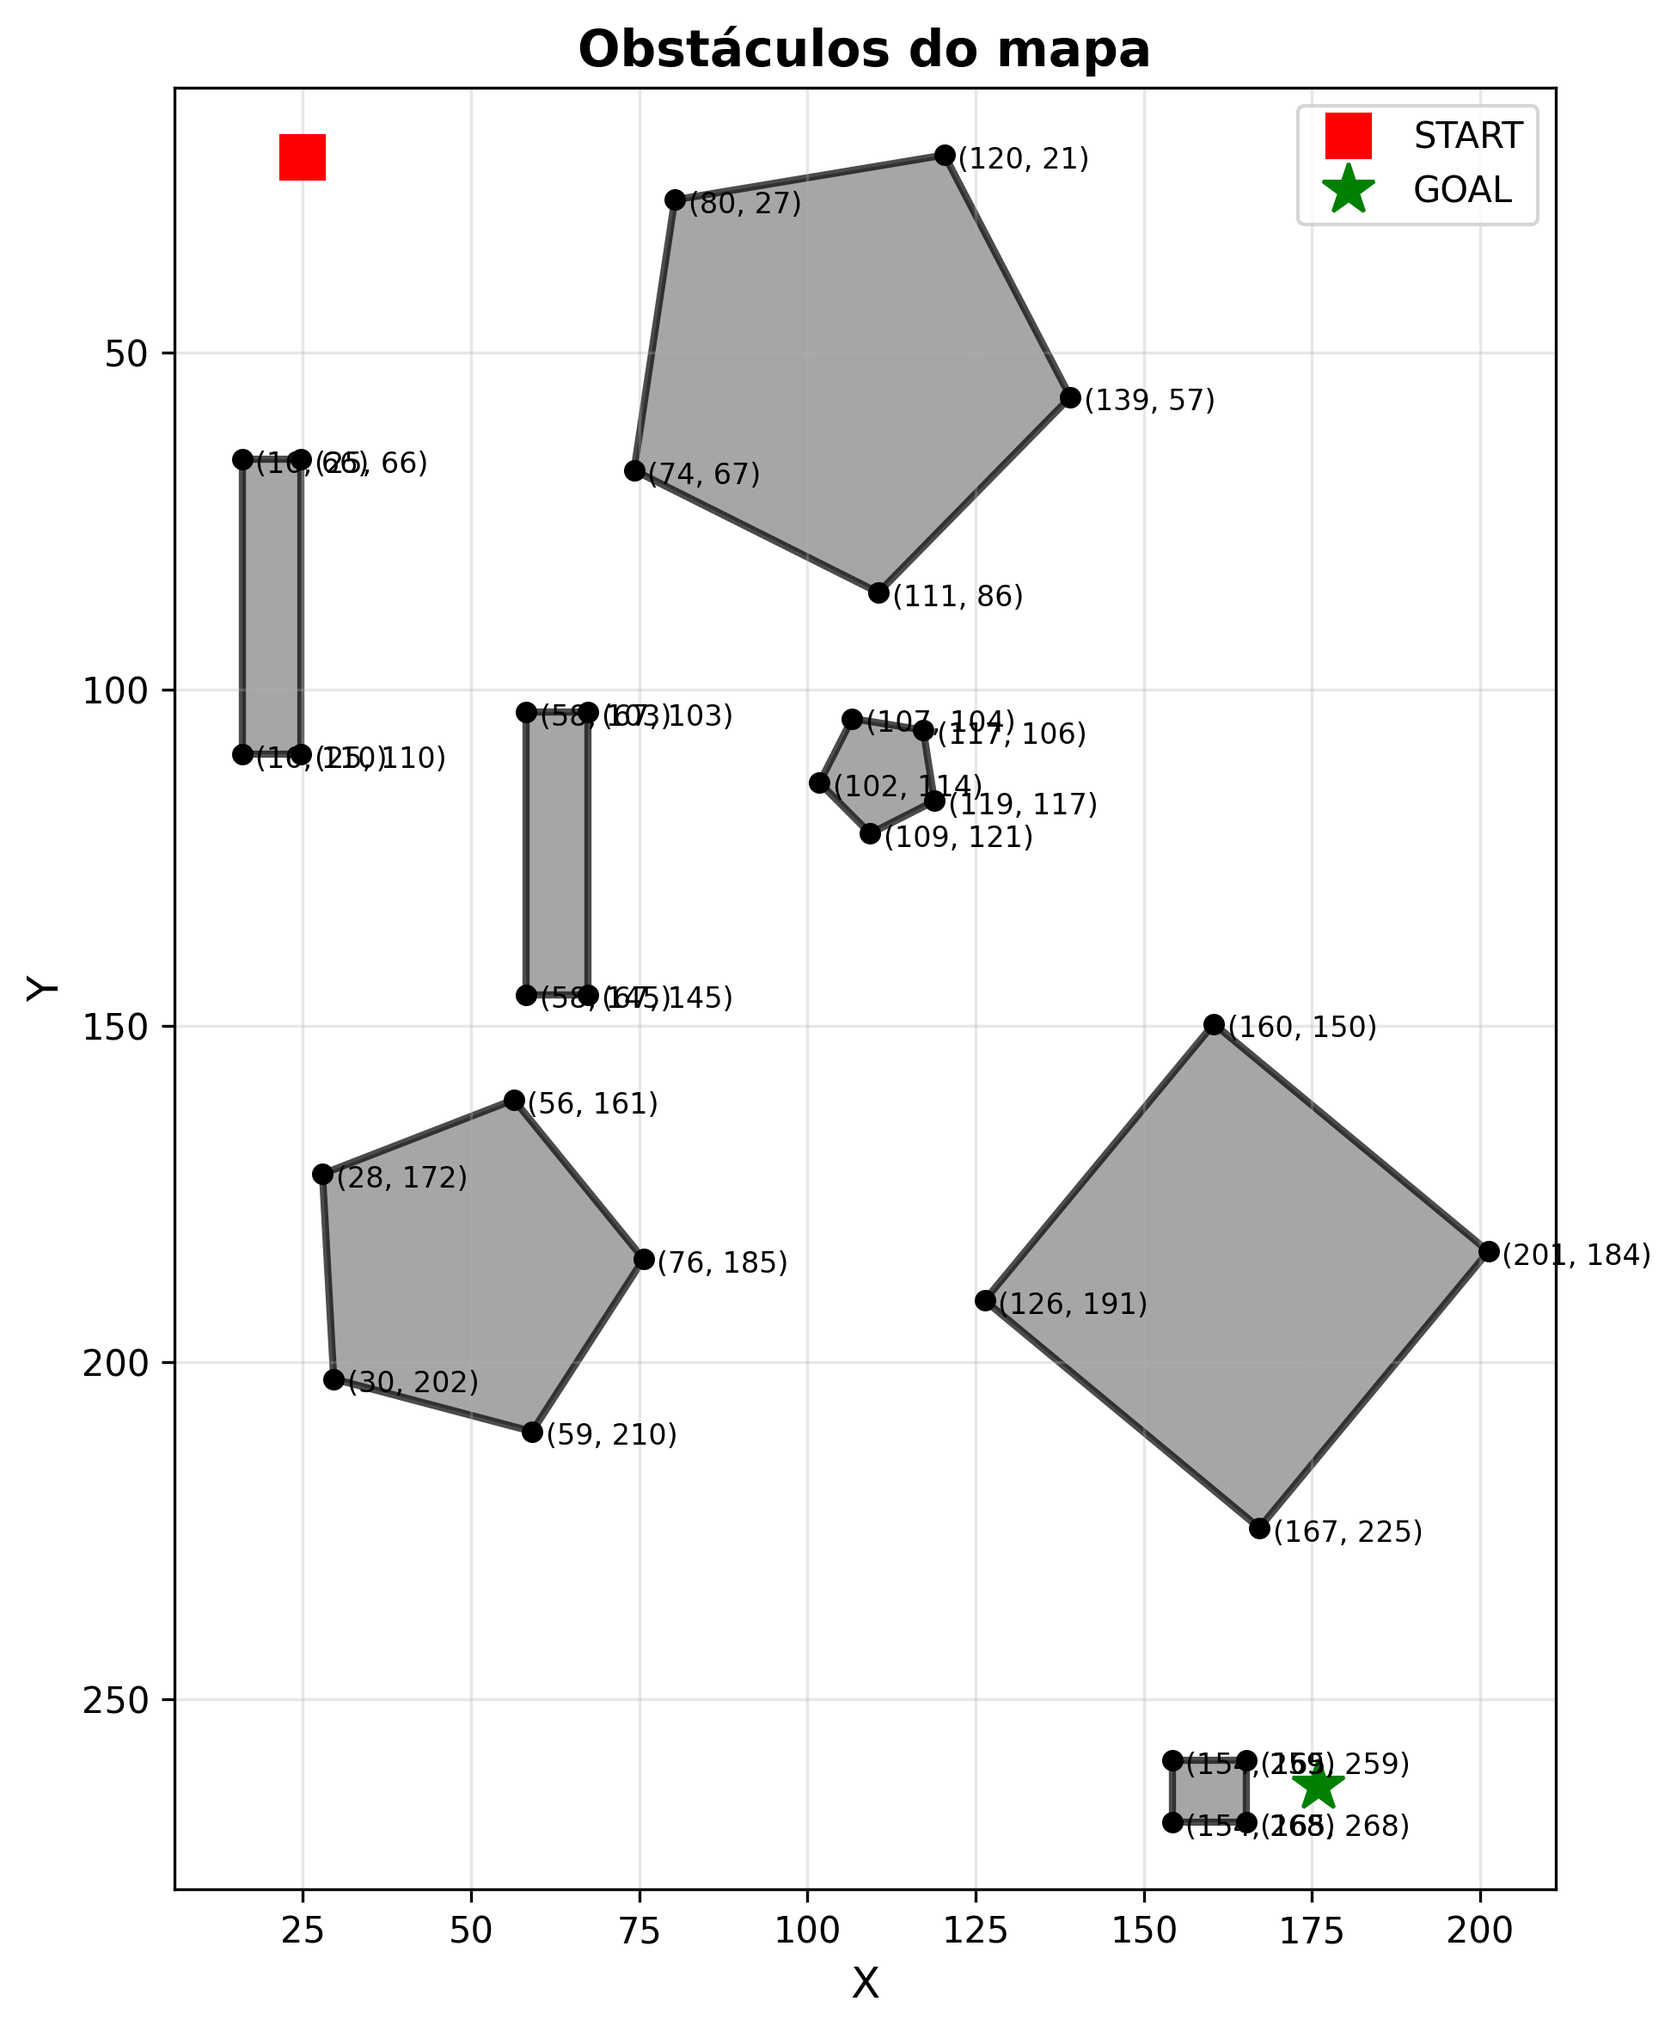
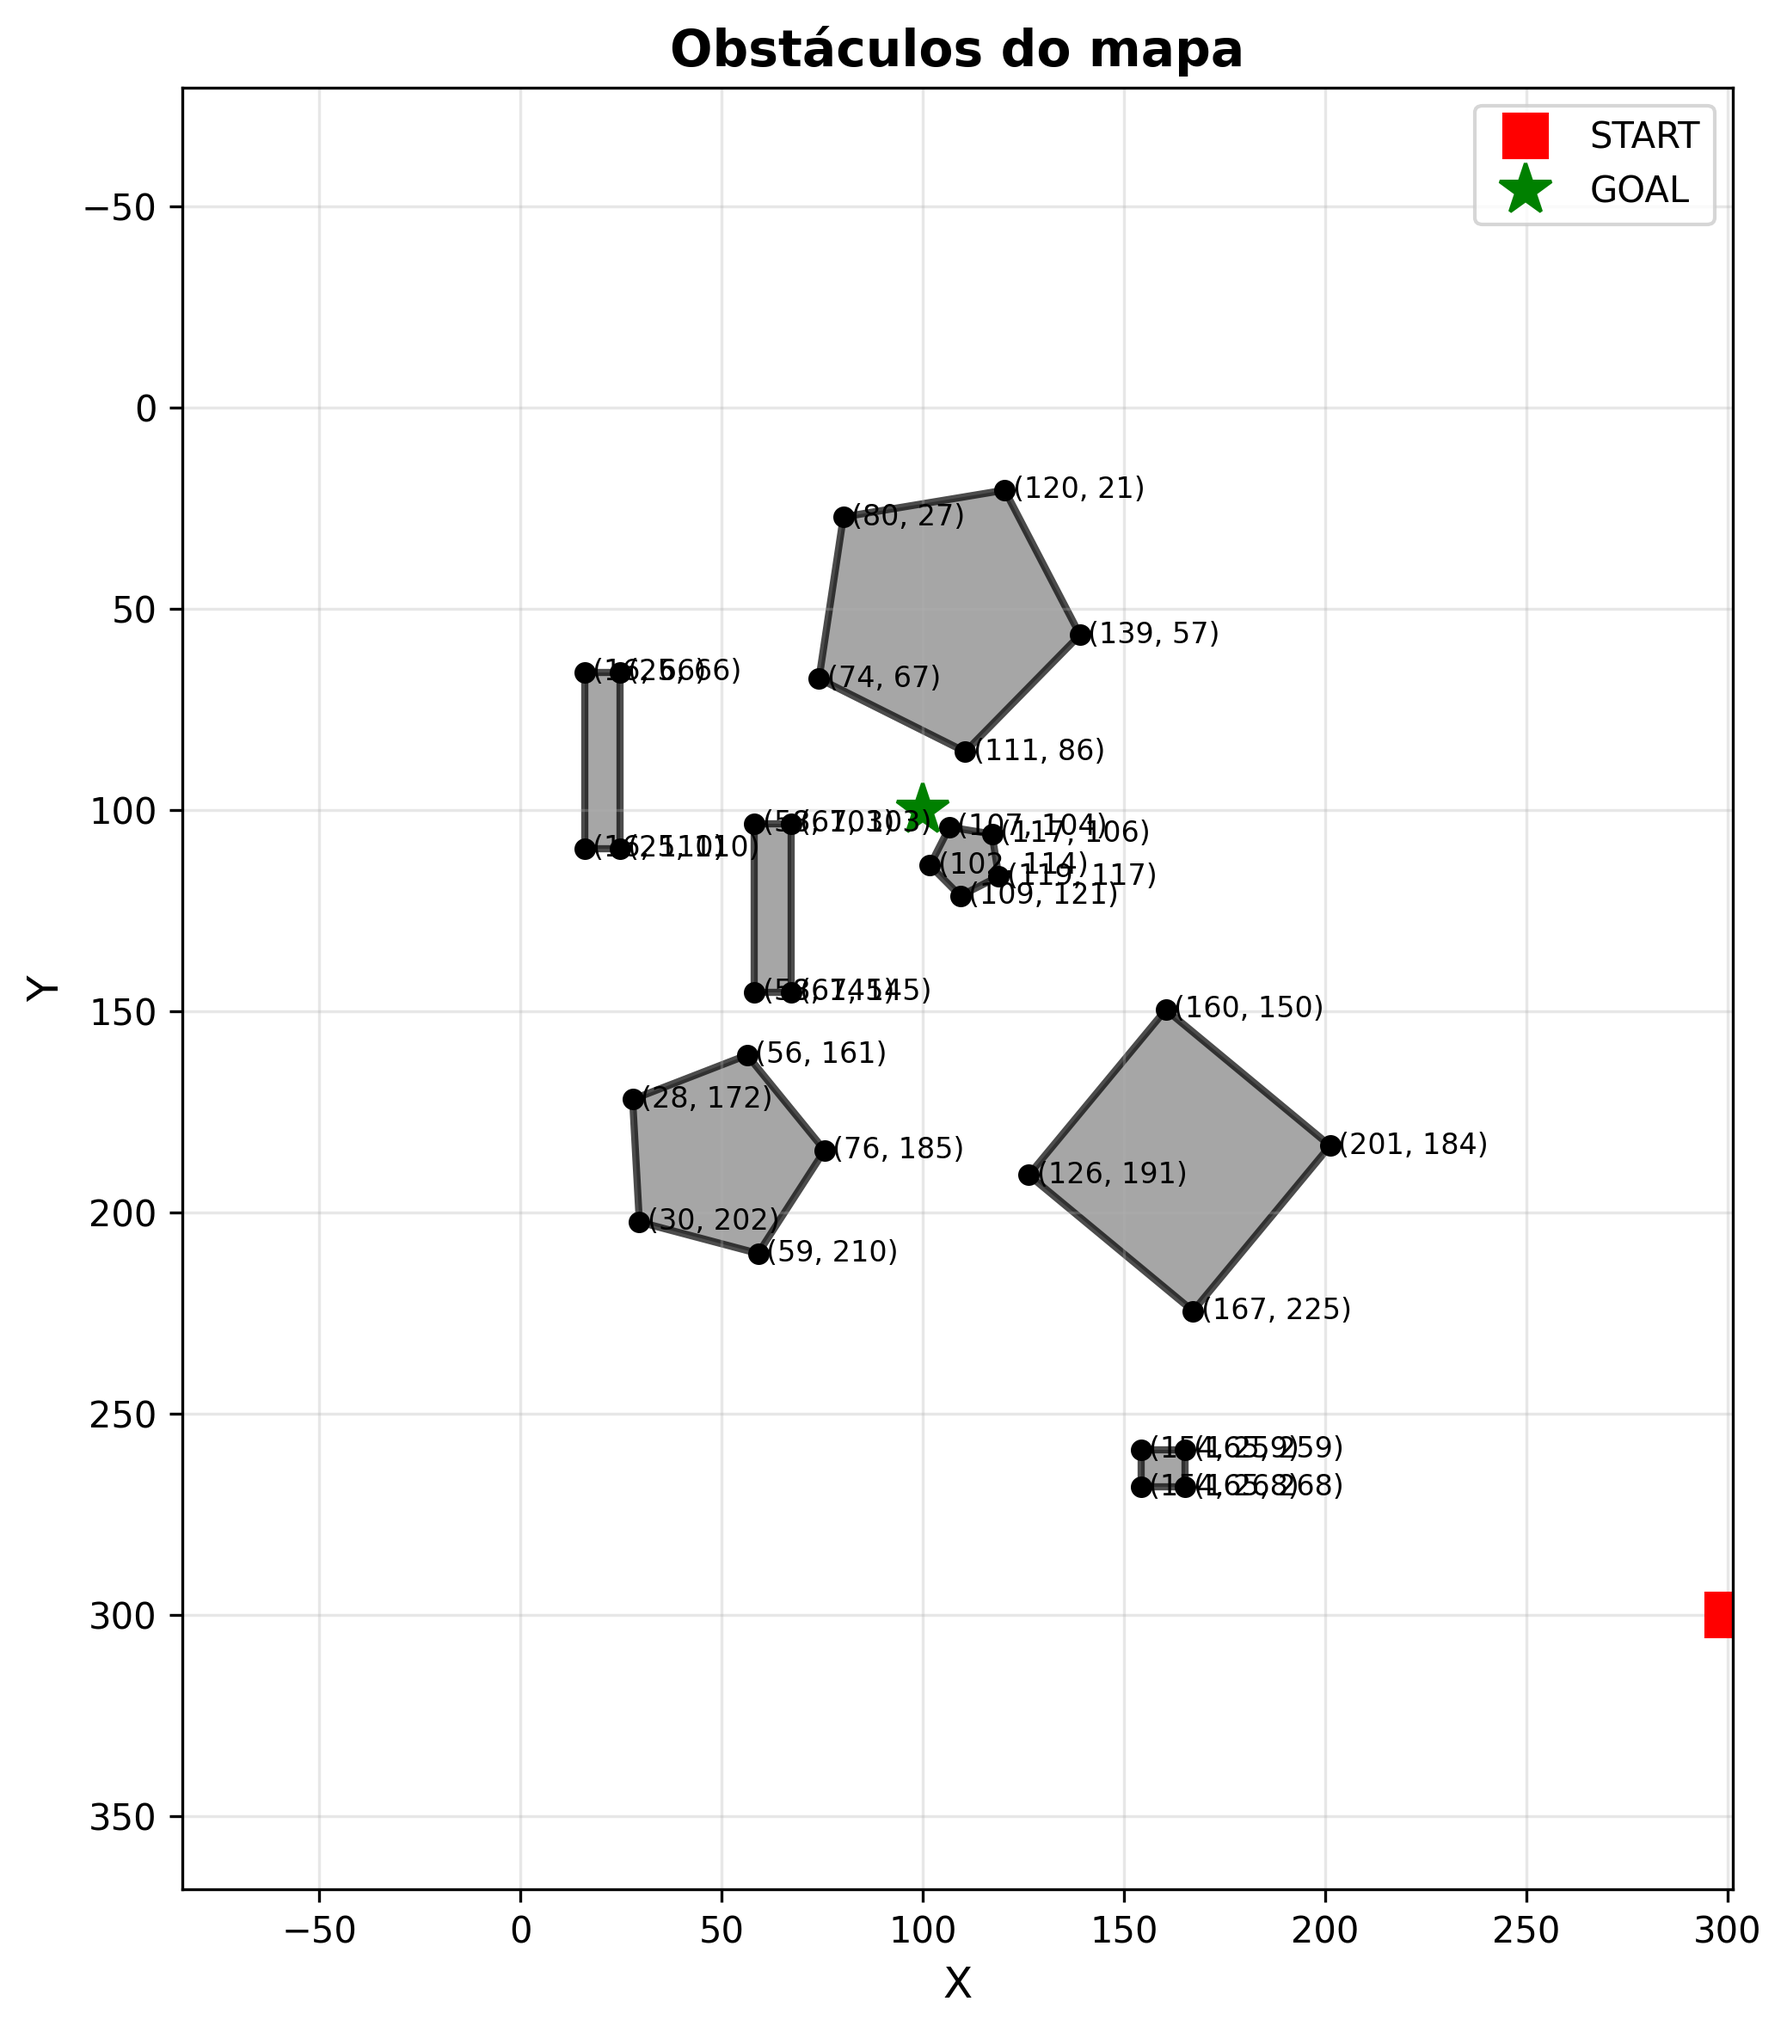
final adjustments

diff --git a/main.py b/main.py
@@ -1,3 +1,4 @@
+import os 
 from Mapas.Leitura import read_file_map, Vertex
 from Mapas.GrafoVisibilidade import create_visibility_graph
 from Mapas.Plotar import plotar_mapa_completo, plotar_apenas_obstaculos, plotar_comparacao
@@ -7,13 +8,13 @@ from Algoritmos.search_in_tree import search_in_tree, print_path
 from Algoritmos.VerticeMaisProximo import ler_posicao_usuario, corrigir_ponto_invalido, vertice_mais_proximo
 
 def clear_screen():
-    import os
+
     os.system('cls' if os.name == 'nt' else 'clear')
 
 def start_menu():
     clear_screen()
     print("─────────────────────────────────────────────────────────")
-    print("  Graphs for Navigation in 2D maps")
+    print("   Graphs for Navigation in 2D maps")
     print("─────────────────────────────────────────────────────────")
     choice = input("1 - Start\n2 - Info\n3 - Quit\n").strip()
     print("─────────────────────────────────────────────────────────")
@@ -22,7 +23,7 @@ def start_menu():
 def info_function():
     msg = """
     ─────────────────────────────────────────────────────────
-              Graphs for Navigation in 2D Maps
+                      Graphs for Navigation in 2D Maps
     ─────────────────────────────────────────────────────────
     Welcome! This program lets you:
 
@@ -45,7 +46,7 @@ def main():
         choice = start_menu()
         if choice == '1':
             clear_screen()
-            archive = "Mapas\\ArquivoMapa.py"
+            archive = os.path.join("Mapas", "ArquivoMapa.py")
             generated_map = read_file_map(archive)
 
             if generated_map:
@@ -110,7 +111,7 @@ def main():
                 if cost is not None:
                     final_start_vertex = Vertex(final_start_pos[0], final_start_pos[1])
                     final_goal_vertex = Vertex(final_goal_pos[0], final_goal_pos[1])
-                   
+                    
                     cost += final_start_vertex.distance(new_start_vertex)
                     cost += final_goal_vertex.distance(new_goal_vertex)
                     
@@ -122,7 +123,7 @@ def main():
                 else:
                     print("\nIt was not possible to find a path between the points!")
                 
-             
+            
                 plotar_apenas_obstaculos(
                     mapa=generated_map, 
                     salvar=True, 
@@ -155,6 +156,7 @@ def main():
             print("Invalid option! Type 1, 2 or 3.")
 
 def choose_dots_mode():
+    print("\nWARNING: The map is originally 200x300 units large, but we added 100 of margin around it for better visualization in plots. If you select points above the margin, it might not show the goal or start in the plot.")
     print("\nChoose your operating mode:")
     print("1 - Use START and GOAL points from file")
     print("2 - Insert new START and GOAL points")

diff --git a/Mapas/Plotar.py b/Mapas/Plotar.py
@@ -90,7 +90,7 @@ def plotar_mapa_completo(mapa, grafo, arvore=None, caminho=None, salvar=False, n
                markeredgewidth=2, label='Objetivo', zorder=6, linestyle='none') 
    
     bounds = mapa.get_bounds()
-    margin = 50
+    margin = 100
     ax.set_xlim(bounds[0] - margin, bounds[2] + margin)
     ax.set_ylim(bounds[1] - margin, bounds[3] + margin)
     
@@ -177,7 +177,7 @@ def plotar_apenas_obstaculos(mapa, salvar=False, nome_arquivo='obstaculos.png'):
     
     ax.legend()
     bounds = mapa.get_bounds()
-    margin = 10
+    margin = 100
     ax.set_xlim(bounds[0] - margin, bounds[2] + margin)
     ax.set_ylim(bounds[1] - margin, bounds[3] + margin)
     
@@ -201,7 +201,7 @@ def plotar_comparacao(mapa, grafo, arvore, caminho, salvar=False, nome_arquivo='
         ax.grid(True, alpha=0.3)
         ax.set_title(title, fontsize=12, fontweight='bold')
         bounds = mapa.get_bounds()
-        margin = 10
+        margin = 100
         ax.set_xlim(bounds[0] - margin, bounds[2] + margin)
         ax.set_ylim(bounds[1] - margin, bounds[3] + margin)
         ax.invert_yaxis()                                               #arruma o coisa contrario
